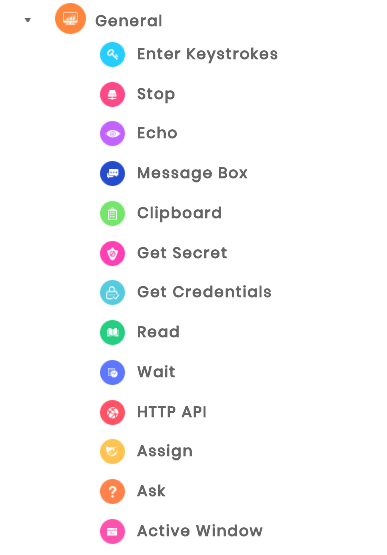
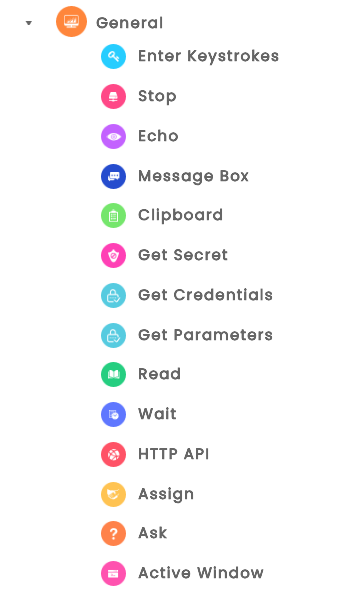
changes in actions

Changed region(s): [[0.1222, 0.0, 0.7639, 0.9802], [0.0611, 0.0306, 0.0917, 0.0613]]

diff --git a/_layouts/default.html b/_layouts/default.html
@@ -608,6 +608,7 @@
                                                         <li style="margin-left:20px;"><a class="child 2" href="#Close"><span class="numbers"></span> <span style="margin-left:15px;">Close File</span></a></li>
                                                         <li style="margin-left:20px;"><a class="child 2" href="#Switch"><span class="numbers"></span> <span style="margin-left:15px;">Switch App</span></a></li>
                                                         <li style="margin-left:20px;"><a class="child 2" href="#Screenshot"><span class="numbers"></span> <span style="margin-left:15px;">Screenshot</span></a></li>
+                                                        <li style="margin-left:20px;"><a class="child 2" href="#DataScrape"><span class="numbers"></span> <span style="margin-left:15px;">DataScrape</span></a></li>
                                                         </ul></li>
 
                                                         <li id="WebA"style="margin-left:10px;"><a id="webautomation-expand" class="child 2" href="#WebAutomation"><span class="numbers"></span> <span style="margin-left:5px;">Web Automation</span></a>
@@ -917,10 +918,17 @@
 
                             <div id="Issues"  class="page-section">
                                   <h4 class="purple"><span class="numbers"></span>  Issues Resolved</h4>
-                                  <p><span class="numbers">1.</span>	Fixed issues that prevents-studio installation when the install path has spaces</p>
-                                  <p><span class="numbers">2.</span>	Resolved issues with desktop automation (dll file missing issues)</p>
-                                  <p><span class="numbers">3.</span>	Enhanced support to handle Popups and Frames</p>
-                                  <p><span class="numbers">4.</span>	Implicit wait feature that waits for webpage elements to load before act on</p>
+                                  <p><span class="numbers">1.</span> If-Else Comparison issue for Integer to String (Operator issue). </p>
+                                  <p><span class="numbers">2.</span> HTTP API (Multiple Headers)</p>
+                                  <p><span class="numbers">3.</span> For Loop</p>
+                                  <p><span class="numbers">4.</span> Break Statements</p>
+                                  <p><span class="numbers">5.</span> External flow triggering	</p>
+                                  <p><span class="numbers">6.</span> Get Credentials/Get Secret</p>
+                                  <p><span class="numbers">7.</span> Variable selection issue</p>
+                                  <p><span class="numbers">8.</span> Open App (when a wrong input is given, the bot stops, throwing an exception in the flow)</p>
+                                  <p><span class="numbers">9.</span> Cut option</p>
+                                  <p><span class="numbers">10.</span> Stage minimizing option</p>
+                                  <p><span class="numbers">11.</span>	Record option</p>
                             </div>
 
                             <div id="TechforceRPA"  class="page-section">
@@ -1263,7 +1271,7 @@
                             <p style="text-align:center;"><strong>Figure 18: Stage Action</strong></p>
 
                             <li><strong> Desktop Automation</strong></li>
-                            <p>Desktop Automation is used to automate desktop applications like Notepad, Excel, MS- Word, folders, files, images, and screen functionalities, using sub-actions like Keyboard Shortcuts, Drag and Drop, Open App, Close APP, Close File and Switch App.</p>
+                            <p>Desktop Automation is used to automate desktop applications like Notepad, Excel, MS-Word, folders, files, images, and screen functionalities, using sub-actions like Keyboard Shortcuts, Drag and Drop, Open App, Close APP, Close File, Switch App, Screenshot, and Data Scrape.</p>
                             <img src="{{ '/assets/images/doc-img33.png' | relative_url }}" alt="image" style="width:300px;border:1px solid green;margin-left:30%;margin-top:10px;margin-bottom:10px;">
                             <p style="text-align:center;"><strong>Figure 19: Desktop Automation</strong></p>
 
@@ -1273,8 +1281,8 @@
                             <p style="text-align:center;"><strong>Figure 20:  Web Automation</strong></p>
 
                             <li><strong> General</strong></li>
-                            <p>General Action is used to automate normal desktop-based and web-based operations using Sub-Actions.</p>
-                            <p>The Sub-Actions like Mouse Clicks, Conditions, Excel, Loops, Jump Statements, OCR, Exceptional Handling, Files and Folders, Secure FTP, CSV, Stop, Message Box, Clipboard, Assign, Ask, HTTP API, Wait, Read, Get Credentials, Get Secret, Echo, Enter Keystrokes, Read and Module are used in General Action.</p>
+                            <p>General Action is used to automate normal desktop-based and web-based operations using Subactions</p>
+                            <p>The Subactions like Mouse Clicks, Conditions, Excel, Loops, Jump Statements, OCR, Exceptional Handling, Files and Folders, Secure FTP, CSV, Stop, Message Box, Clipboard, Assign, Ask, HTTP API, Wait, Read, Get Credentials, Get Secret, Get Parameters, Echo, Enter Keystrokes, Read and Module are used in General Action.</p>
                             <img src="{{ '/assets/images/doc-img35.png' | relative_url }}" alt="image" style="width:300px;border:1px solid green;margin-left:30%;margin-top:10px;margin-bottom:10px;">
                             <img src="{{ '/assets/images/doc-img36.png' | relative_url }}" alt="image" style="width:200px;border:1px solid green;margin-left:30%;margin-top:10px;margin-bottom:10px;">
                             <p style="text-align:center;"><strong>Figure 21: General</strong></p>
@@ -1290,21 +1298,20 @@
                             <p style="text-align:center;"><strong>Figure 23: Mail Integration</strong></p>
 
                             <li><strong> Database</strong></li>
-                            <p>The Database is used to connect to the database like MYSQL and PostgreSQL. The data can be retrieved and stored in desktop applications. Similarly, the data can be sent to the database from the desktop applications. All the queries executed in the database can be executed using database actions.</p>
-
+                            <p>The Database is used to connect to the database like My SQL, PostgreSQL, Oracle, and MS SQL. The data can be retrieved and stored in desktop applications. Similarly, the data can be sent to the database from the desktop applications. All the queries executed in the database can be executed using database actions.</p>
                             <img src="{{ '/assets/images/doc-img39.png' | relative_url }}" alt="image" style="width:300px;border:1px solid green;margin-left:30%;margin-top:10px;margin-bottom:10px;">
                             <p style="text-align:center;"><strong>Figure 24: Database</strong></p>
                           </div>
 
                           <div id="Stage"  class="page-section">
                             <h4 class="purple"> Stage</h4>
-                            <p>The stage can be considered a group of multiple actions. The actions used in the flow must be included at least in one stage.</p>
+                            <p>The stage can be considered a group of multiple actions. The actions used in the flow must be included at least in one stage. The stage can be minimized or maximized by clicking on the UP arrow (to minimize) and down arrow (to maximize the stage).</p>
                           </div>
 
                           <div id="DesktopAutomation"  class="page-section">
                             <h4 class="purple"> Desktop Automation</h4>
                             <p>Desktop automation is used to automate desktop applications. In this type of automation, either images or locations are used for interacting with the elements. Dom objects of the web page and web-based actions cannot be accessed using desktop automation. Instead, images and locations can be used. While triggering the flow designed using desktop actions, the user should be careful that the UI of the page should be visible on the screen.</p>
-                            <p>Actions that come under desktop automation are Keyboard Shortcuts, Drag and Drop, Open App, Close App, Close File, and Switch App.</p>
+                            <p>Actions that come under desktop automation are Keyboard Shortcuts, Drag and Drop, Open App, Close App, Close File, Switch App, Screenshot, and DataScrape.</p>
                           </div>
 
                           <div id="Keyboard"  class="page-section">
@@ -1395,6 +1402,16 @@
                              <li><span class="numbers">1.</span><strong> Requirement:</strong> To take the screenshot of the current screen.</li>
                              <li><span class="numbers">2.</span><strong> Input:</strong> Just give the location path with name and extension to save the image.</li>
                             </ol>
+                          </div>
+
+                          <div id="DataScrape"  class="page-section">
+                            <h5 class="purple"> DataScrape</h5>
+                            <p>This action is used to extract the data from the selected image. The extracted data will be stored in a variable for further use. </p>
+                           <ol>
+                             <h5>Properties</h5>
+                             <p><strong>Select Image:</strong> Click on the Select Image button. It opens a new window to select the image. Select the image from the path. On the image, select the area to extract the data from, and press Enter.</p>
+                             <p><strong>Select Variable:</strong> Create a string variable in the variable Panel. Select the created string variable from the drop-down to store the result. </p>
+                           </ol>
                           </div>
 
                           <div id="WebAutomation"  class="page-section">
